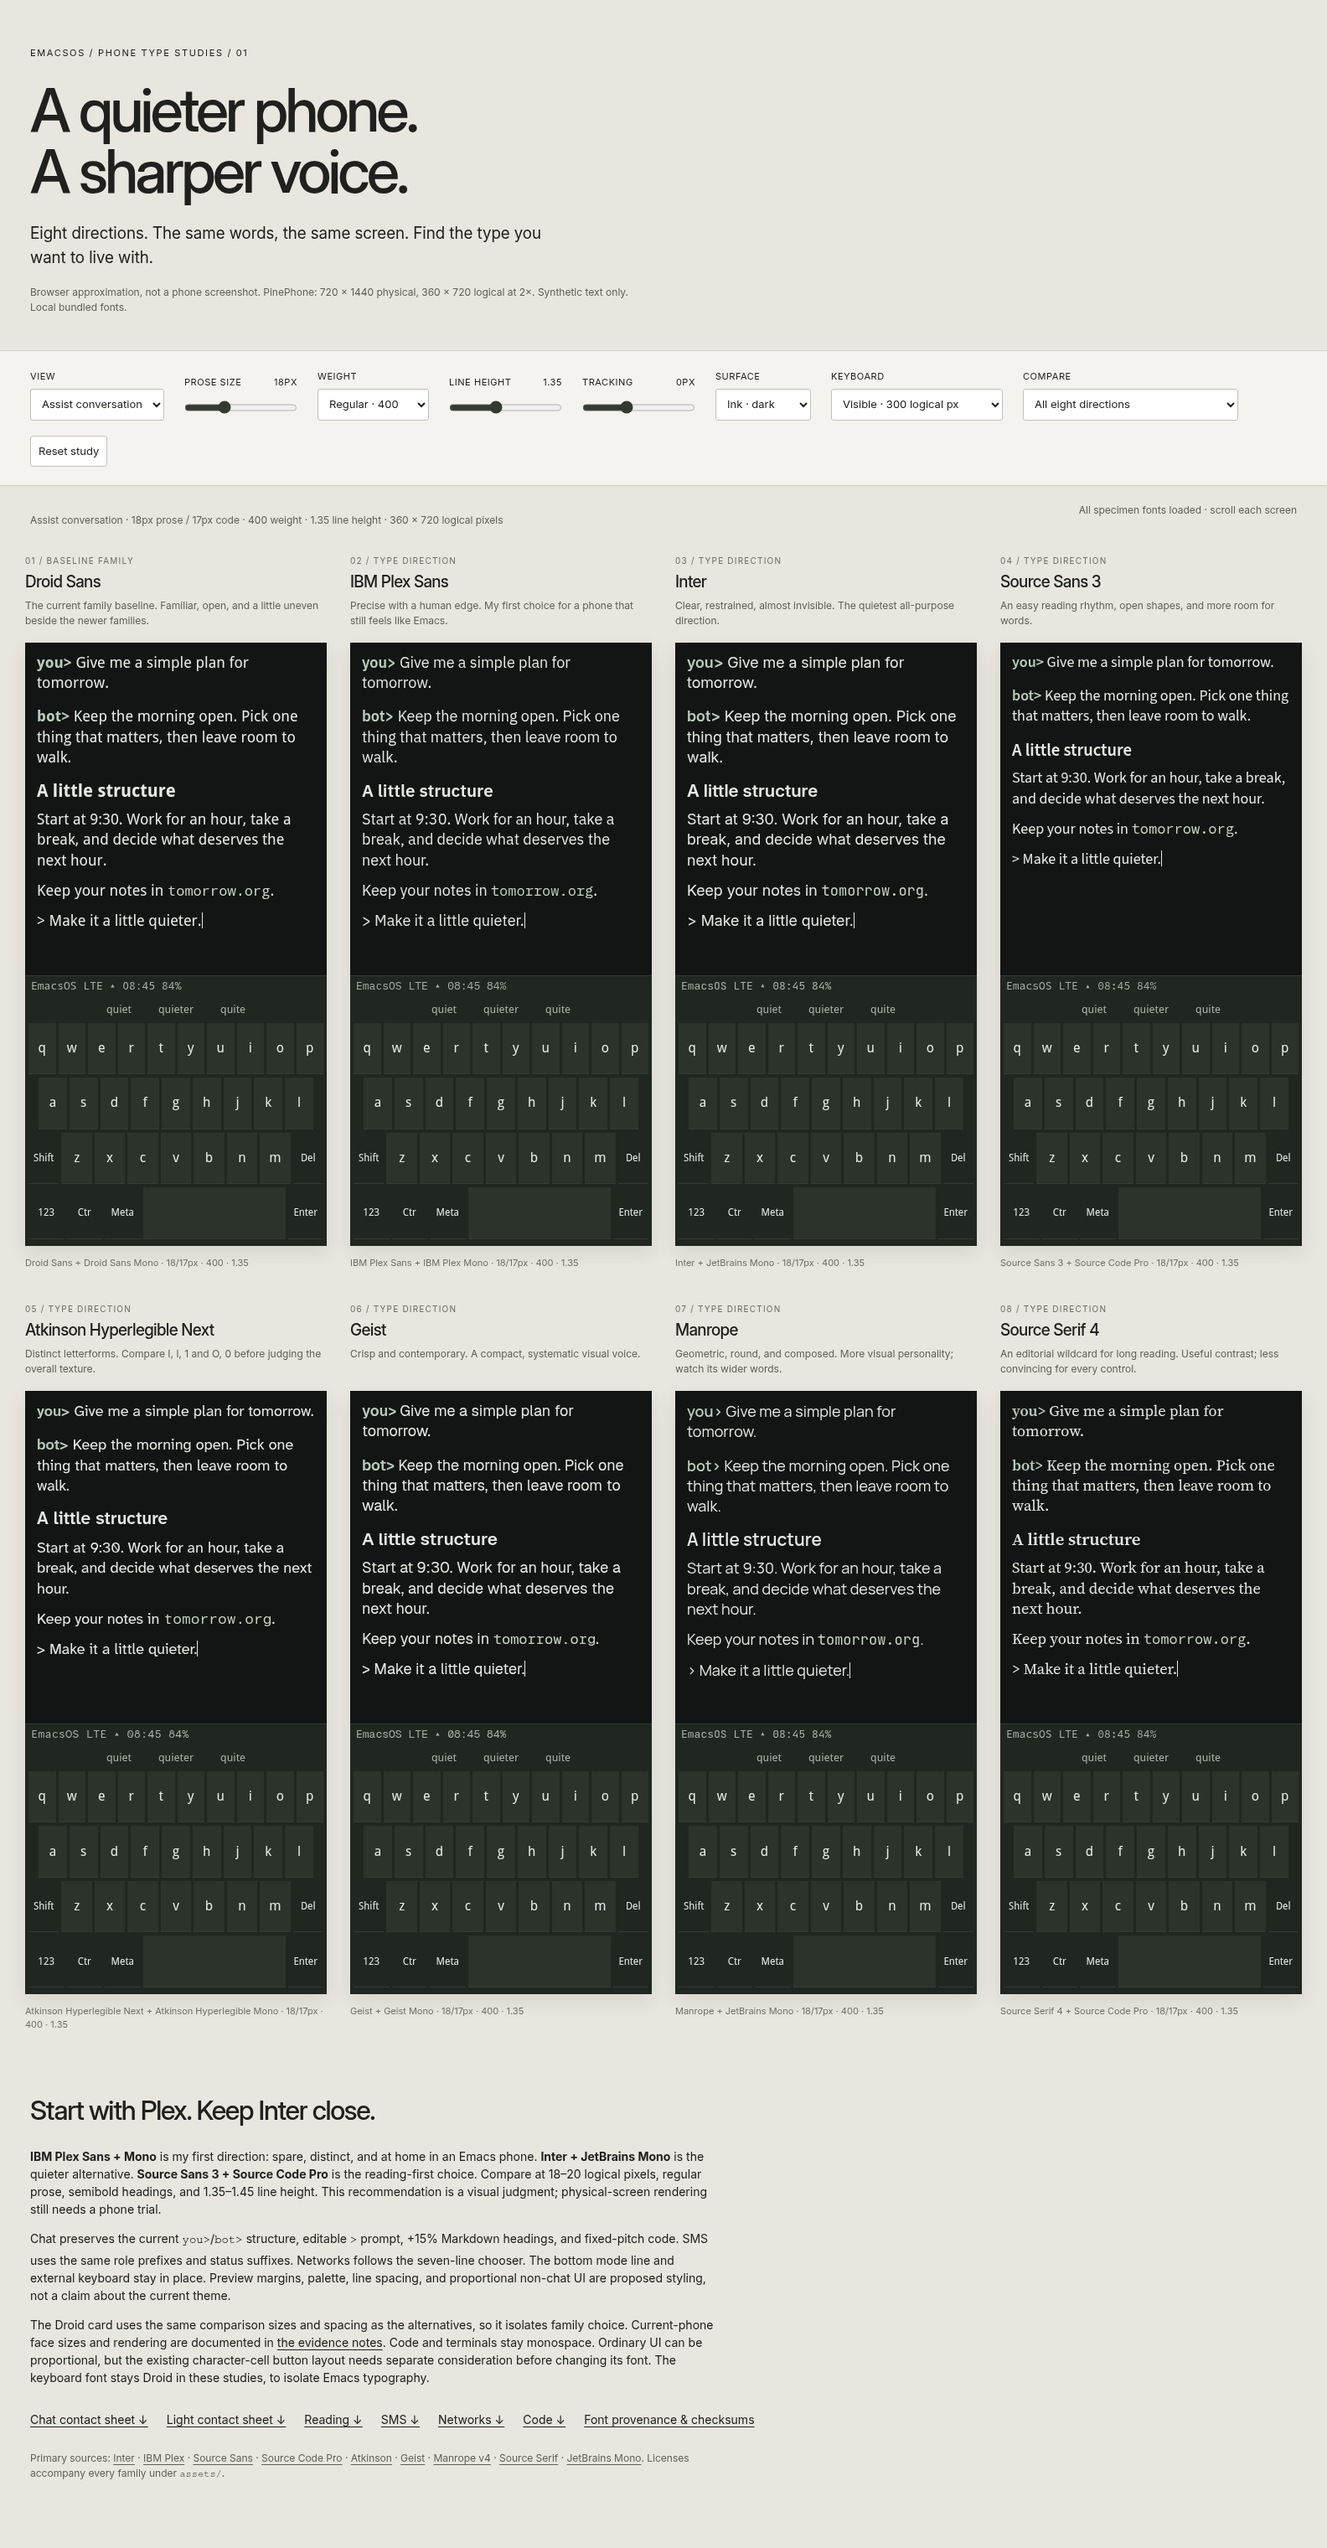
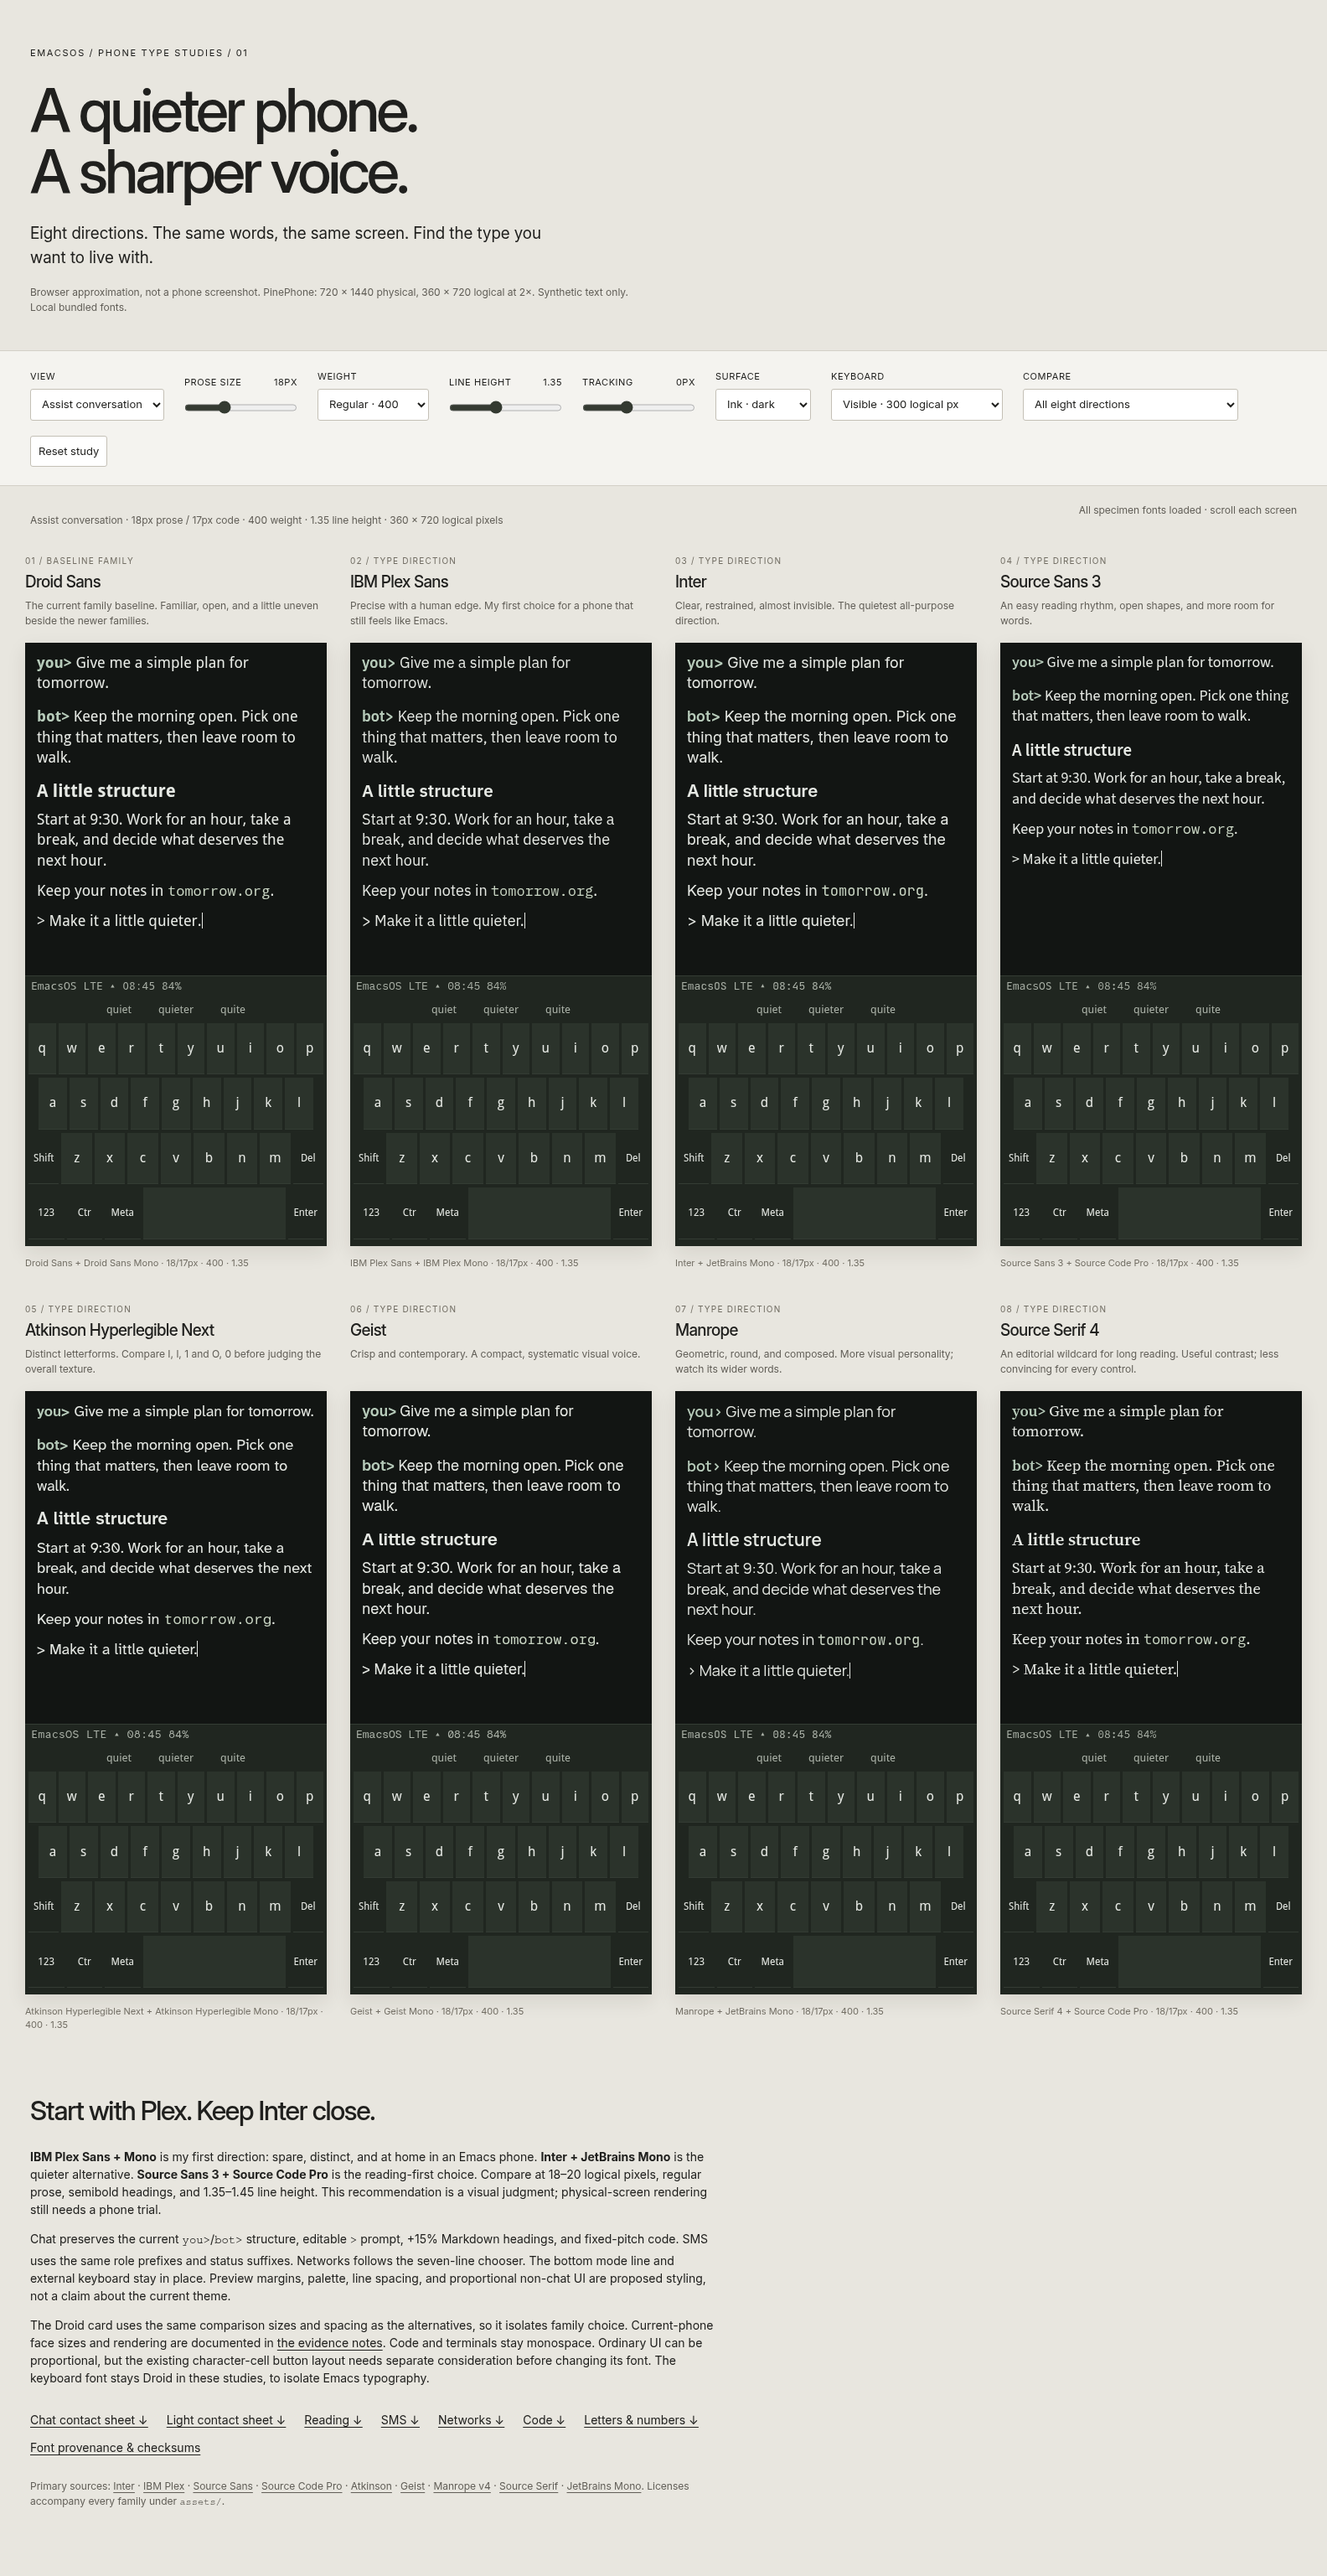
Link every typography contact sheet for download

diff --git a/previews/phone-typography/index.html b/previews/phone-typography/index.html
@@ -20,6 +20,6 @@
 </form>
 <div class="study-head"><p id="study-summary"></p><span id="font-status" role="status">Loading fonts…</span></div>
 <main id="gallery" class="gallery"></main>
-<section class="notes"><h2>Start with Plex. Keep Inter close.</h2><p><strong>IBM Plex Sans + Mono</strong> is my first direction: spare, distinct, and at home in an Emacs phone. <strong>Inter + JetBrains Mono</strong> is the quieter alternative. <strong>Source Sans 3 + Source Code Pro</strong> is the reading-first choice. Compare at 18–20 logical pixels, regular prose, semibold headings, and 1.35–1.45 line height. This recommendation is a visual judgment; physical-screen rendering still needs a phone trial.</p><p>Chat preserves the current <code>you&gt;</code>/<code>bot&gt;</code> structure, editable <code>&gt;</code> prompt, +15% Markdown headings, and fixed-pitch code. SMS uses the same role prefixes and status suffixes. Networks follows the seven-line chooser. The bottom mode line and external keyboard stay in place. Preview margins, palette, line spacing, and proportional non-chat UI are proposed styling, not a claim about the current theme.</p><p>The Droid card uses the same comparison sizes and spacing as the alternatives, so it isolates family choice. Current-phone face sizes and rendering are documented in <a href="README.md">the evidence notes</a>. Code and terminals stay monospace. Ordinary UI can be proportional, but the existing character-cell button layout needs separate consideration before changing its font. The keyboard font stays Droid in these studies, to isolate Emacs typography.</p><div class="downloads"><a href="screenshots/chat-dark.png" download>Chat contact sheet ↓</a><a href="screenshots/chat-light.png" download>Light contact sheet ↓</a><a href="screenshots/reading.png" download>Reading ↓</a><a href="screenshots/sms.png" download>SMS ↓</a><a href="screenshots/network.png" download>Networks ↓</a><a href="screenshots/code.png" download>Code ↓</a><a href="font-manifest.json">Font provenance & checksums</a></div><p class="source-links">Primary sources: <a href="https://rsms.me/inter/">Inter</a> · <a href="https://github.com/IBM/plex">IBM Plex</a> · <a href="https://github.com/adobe-fonts/source-sans">Source Sans</a> · <a href="https://github.com/adobe-fonts/source-code-pro">Source Code Pro</a> · <a href="https://www.brailleinstitute.org/freefont/">Atkinson</a> · <a href="https://vercel.com/font">Geist</a> · <a href="https://github.com/sharanda/manrope">Manrope v4</a> · <a href="https://github.com/adobe-fonts/source-serif">Source Serif</a> · <a href="https://www.jetbrains.com/lp/mono/">JetBrains Mono</a>. Licenses accompany every family under <code>assets/</code>.</p></section>
+<section class="notes"><h2>Start with Plex. Keep Inter close.</h2><p><strong>IBM Plex Sans + Mono</strong> is my first direction: spare, distinct, and at home in an Emacs phone. <strong>Inter + JetBrains Mono</strong> is the quieter alternative. <strong>Source Sans 3 + Source Code Pro</strong> is the reading-first choice. Compare at 18–20 logical pixels, regular prose, semibold headings, and 1.35–1.45 line height. This recommendation is a visual judgment; physical-screen rendering still needs a phone trial.</p><p>Chat preserves the current <code>you&gt;</code>/<code>bot&gt;</code> structure, editable <code>&gt;</code> prompt, +15% Markdown headings, and fixed-pitch code. SMS uses the same role prefixes and status suffixes. Networks follows the seven-line chooser. The bottom mode line and external keyboard stay in place. Preview margins, palette, line spacing, and proportional non-chat UI are proposed styling, not a claim about the current theme.</p><p>The Droid card uses the same comparison sizes and spacing as the alternatives, so it isolates family choice. Current-phone face sizes and rendering are documented in <a href="README.md">the evidence notes</a>. Code and terminals stay monospace. Ordinary UI can be proportional, but the existing character-cell button layout needs separate consideration before changing its font. The keyboard font stays Droid in these studies, to isolate Emacs typography.</p><div class="downloads"><a href="screenshots/chat-dark.png" download>Chat contact sheet ↓</a><a href="screenshots/chat-light.png" download>Light contact sheet ↓</a><a href="screenshots/reading.png" download>Reading ↓</a><a href="screenshots/sms.png" download>SMS ↓</a><a href="screenshots/network.png" download>Networks ↓</a><a href="screenshots/code.png" download>Code ↓</a><a href="screenshots/glyphs.png" download>Letters & numbers ↓</a><a href="font-manifest.json">Font provenance & checksums</a></div><p class="source-links">Primary sources: <a href="https://rsms.me/inter/">Inter</a> · <a href="https://github.com/IBM/plex">IBM Plex</a> · <a href="https://github.com/adobe-fonts/source-sans">Source Sans</a> · <a href="https://github.com/adobe-fonts/source-code-pro">Source Code Pro</a> · <a href="https://www.brailleinstitute.org/freefont/">Atkinson</a> · <a href="https://vercel.com/font">Geist</a> · <a href="https://github.com/sharanda/manrope">Manrope v4</a> · <a href="https://github.com/adobe-fonts/source-serif">Source Serif</a> · <a href="https://www.jetbrains.com/lp/mono/">JetBrains Mono</a>. Licenses accompany every family under <code>assets/</code>.</p></section>
 <script src="specimen.js"></script>
 </body></html>
